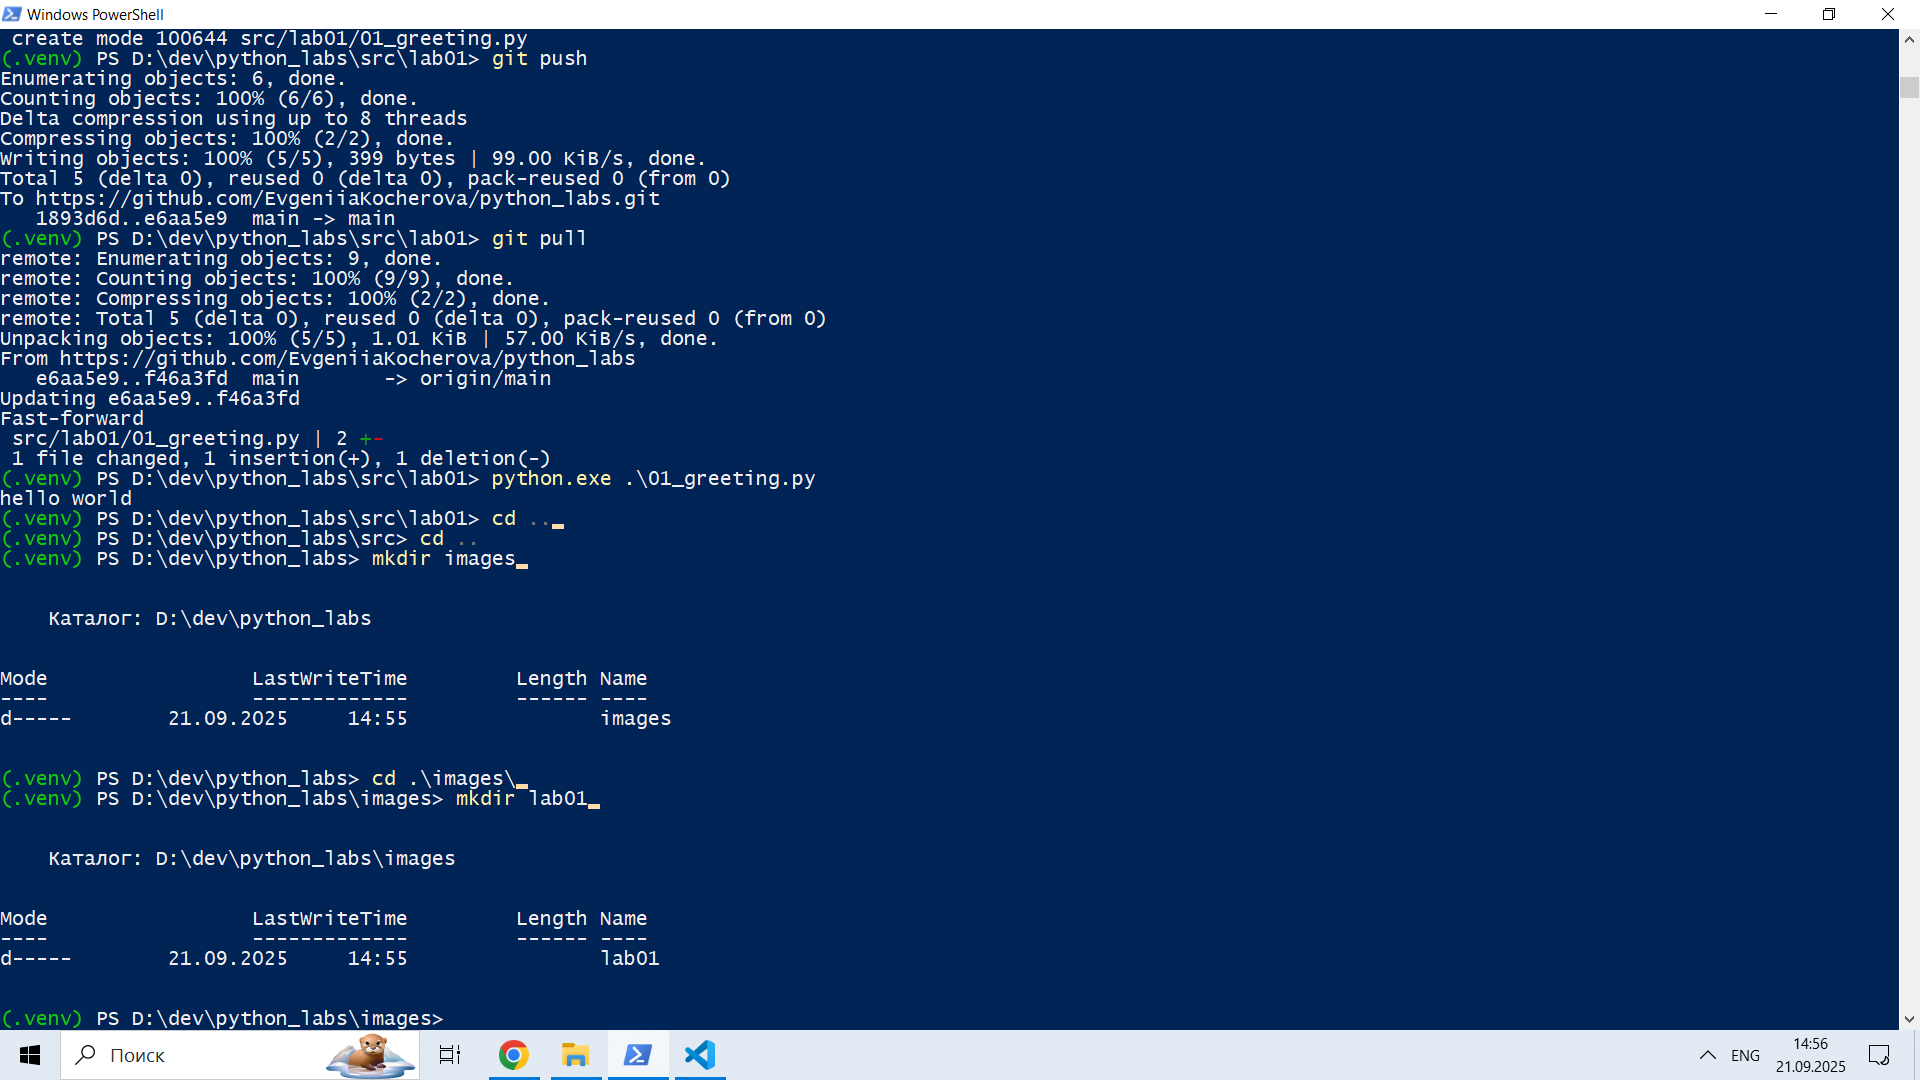
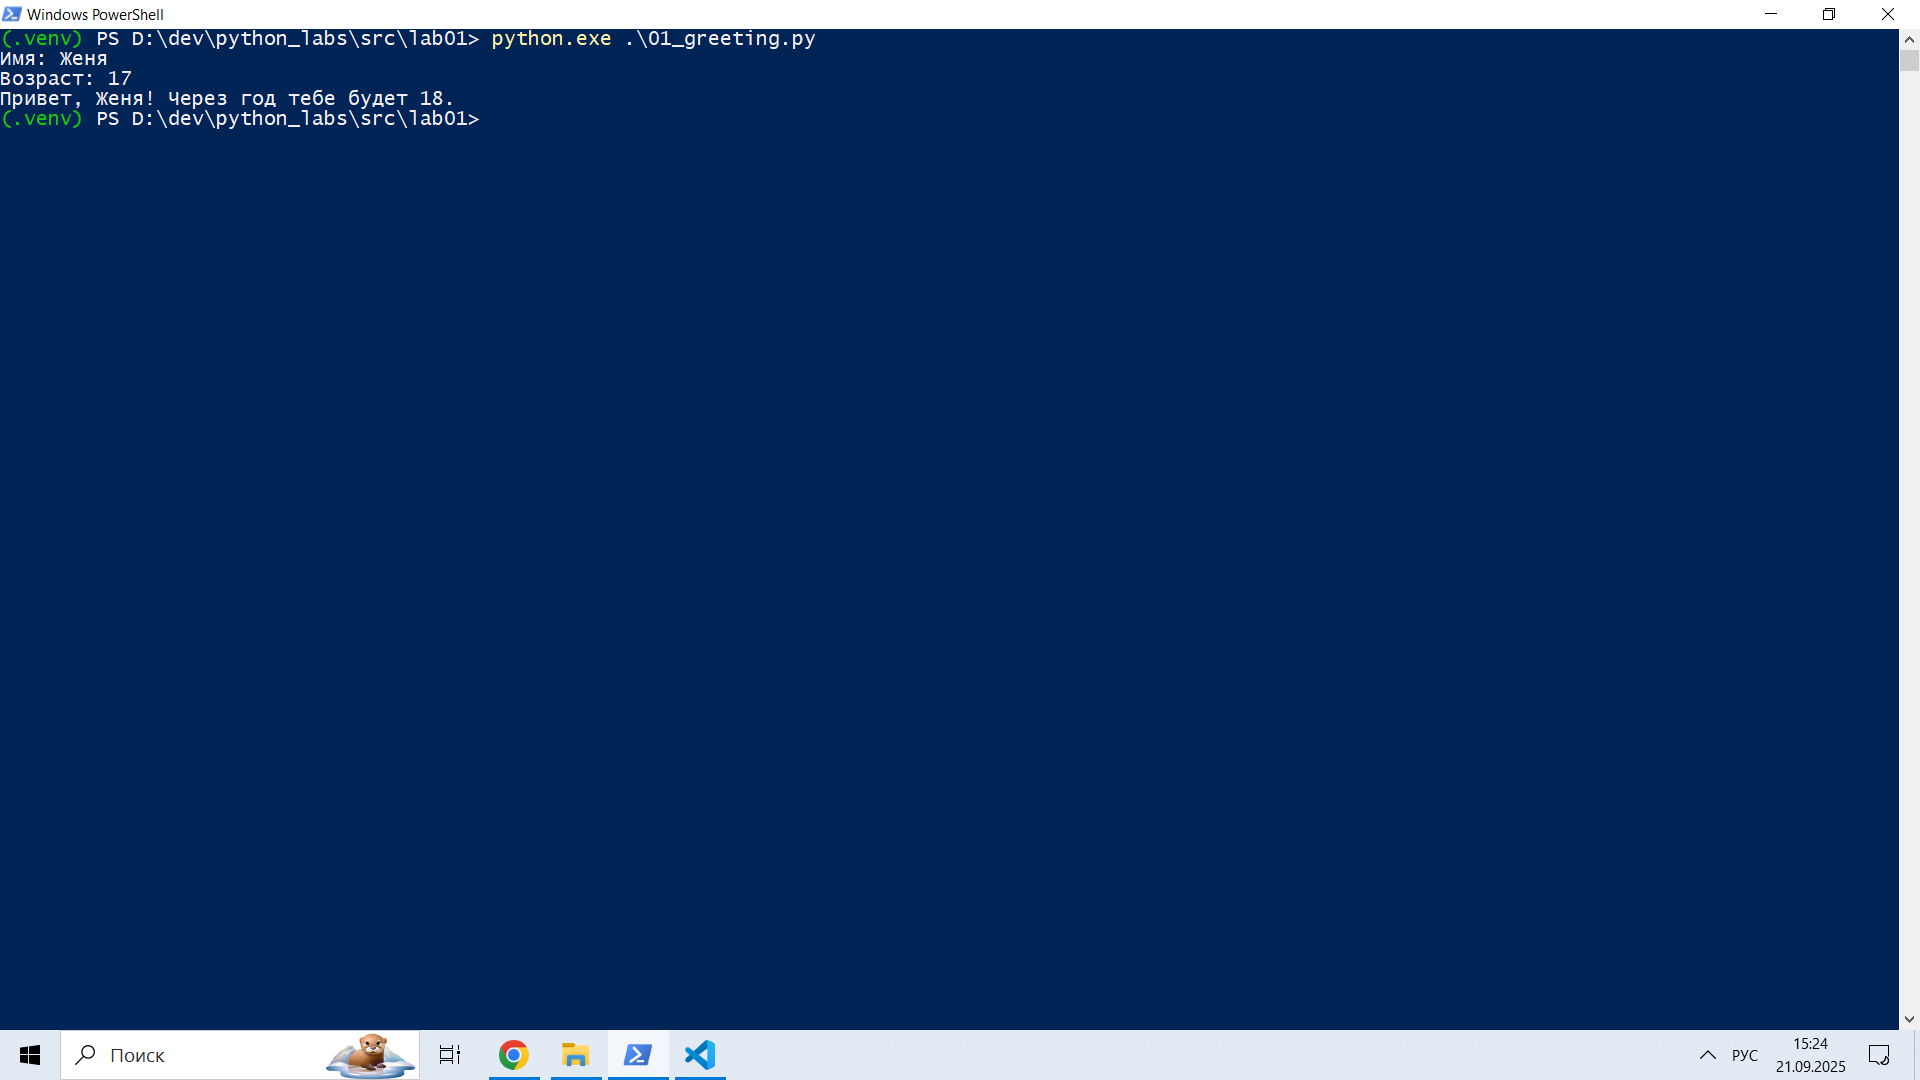
рабочая версия lab01

diff --git a/src/lab01/01_greeting.py b/src/lab01/01_greeting.py
@@ -1,1 +1,3 @@
-print("hello world")
+name = input("Имя: ")
+age = int(input("Возраст: "))
+print(f"Привет, {name}! Через год тебе будет {age + 1}.")
